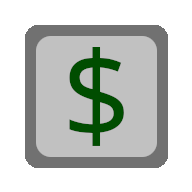
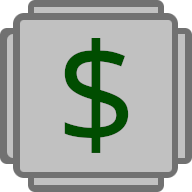
added movable resources (one day im gonna run into performance issues and wonder what the fuck have i done wrong)

diff --git a/src/main/java/me/mert/glyph/Glyph.java b/src/main/java/me/mert/glyph/Glyph.java
@@ -1,0 +1,131 @@
+package me.mert.glyph;
+
+import java.awt.BasicStroke;
+import java.awt.Graphics2D;
+import java.awt.Stroke;
+import java.util.ArrayList;
+import java.util.List;
+
+import me.mert.core.enums.Primitive;
+
+public class Glyph {
+    List<GlyphLayer> layers;
+    static final int[] QX = { 1, 0, 0, 1 };
+    static final int[] QY = { 0, 0, 1, 1 };
+
+    public Glyph(Primitive shape) {
+        layers = new ArrayList<>();
+        fillPrimitives(shape);
+    }
+
+    private void fillPrimitives(Primitive shape) {
+        GlyphLayer layer = new GlyphLayer();
+
+        layer.q[0] = shape;
+        layer.q[1] = shape;
+        layer.q[2] = shape;
+        layer.q[3] = shape;
+
+        layers.add(layer);
+    }
+
+    public static void render(
+            Graphics2D g2d,
+            Glyph g,
+            int x,
+            int y,
+            int size) {
+        if (g == null) {
+            return;
+        }
+
+        int layerOffset = size / 6;
+        
+
+        for (int l = 0; l < g.layers.size(); l++) {
+            int ly = y - l * layerOffset;
+            GlyphLayer layer = g.layers.get(l);
+
+            renderLayer(g2d, layer, x, ly, size);
+        }
+
+    }
+
+    private static boolean isUniform(GlyphLayer layer, Primitive p) {
+        for (int q = 0; q < 4; q++) {
+            if (layer.q[q] != p)
+                return false;
+
+        }
+        return true;
+    }
+
+    private static void renderLayer(
+            Graphics2D g2d,
+            GlyphLayer layer,
+            int x,
+            int y,
+            int size) {
+
+        if (isUniform(layer, Primitive.SQUARE)) {
+            drawSquare(g2d, x, y, size);
+            return;
+        }
+
+        if (isUniform(layer, Primitive.CIRCLE)) {
+            drawCircle(g2d, x, y, size);
+            return;
+        }
+
+        int qs = size / 2;
+
+        for (int q = 0; q < 4; q++) {
+            Primitive p = layer.q[q];
+
+            if (p == Primitive.EMPTY)
+                continue;
+
+            int px = x + QX[q] * qs;
+            int py = y + QY[q] * qs;
+
+            renderPrimitive(g2d, p, px, py, qs);
+        }
+    }
+
+    // tbh idk if this is good to do (idk what else)
+    @SuppressWarnings("incomplete-switch")
+    private static void renderPrimitive(
+            Graphics2D g2d,
+            Primitive p,
+            int x,
+            int y,
+            int size) {
+
+        switch (p) {
+            case SQUARE -> drawSquare(g2d, x, y, size);
+            case CIRCLE -> drawCircle(g2d, x, y, size);
+            case LINE -> drawLine(g2d, x, y, size);
+        }
+
+    }
+
+    private static void drawSquare(Graphics2D g2d, int x, int y, int s) {
+        g2d.drawRect(x + 1, y + 1, s - 2, s - 2);
+    }
+
+    private static void drawCircle(Graphics2D g2d, int x, int y, int s) {
+        g2d.drawOval(x + 1, y + 1, s - 2, s - 2);
+    }
+
+    private static void drawLine(Graphics2D g, int x, int y, int s) {
+        Stroke old = g.getStroke();
+        g.setStroke(new BasicStroke(Math.max(2, s / 6)));
+
+        g.drawLine(
+                x + s / 4, y + s / 4,
+                x + 3 * s / 4, y + 3 * s / 4);
+
+        g.setStroke(old);
+    }
+
+}

diff --git a/src/main/java/me/mert/ui/GameRenderer.java b/src/main/java/me/mert/ui/GameRenderer.java
@@ -10,7 +10,9 @@ import java.util.Set;
 
 import me.mert.components.Component;
 import me.mert.core.Constants;
+import me.mert.core.enums.ComponentType;
 import me.mert.core.enums.Direction;
+import me.mert.glyph.Glyph;
 import me.mert.world.Tile;
 import me.mert.world.World;
 
@@ -28,6 +30,8 @@ public class GameRenderer {
         this.CELL_SIZE = Constants.CELL_SIZE;
     }
 
+    // with the amount of math in this file i deserve at least a bit of appreciation
+    // but sadly nobody is here to see it :(
     private int getSize() {
         return (int) (CELL_SIZE * camera.zoom);
     }
@@ -119,6 +123,9 @@ public class GameRenderer {
     public void drawComponents(Graphics g, int screenWidth, int screenHeight) {
         double zoom = camera.zoom;
 
+        // still don't get why there is Graphics and Graphics2D :|
+        Graphics2D g2d = (Graphics2D) g;
+
         // visible world range
         double worldStartX = camera.x;
         double worldEndX = camera.x + screenWidth / zoom;
@@ -160,10 +167,17 @@ public class GameRenderer {
                 // except if you are retarted and remove the resource folder
                 obj.render(g, screenX, screenY, zoom, CELL_SIZE);
 
-                // TEMP to visualize the items flowing through
-                if (obj.hasItem()) {
-                    g.setColor(Color.RED);
-                    g.fillOval(screenX, screenY, 20, 20);
+                if (obj.hasItem() && obj.type != ComponentType.HUB) {
+                    Glyph glyph = obj.getItem();
+
+                    if (glyph == null)
+                        continue;
+
+                    int glyphSize = (int) (CELL_SIZE * zoom * 0.6);
+                    int gx = screenX + (int) (CELL_SIZE * zoom / 2 - glyphSize / 2);
+                    int gy = screenY + (int) (CELL_SIZE * zoom / 2 - glyphSize / 2);
+
+                    Glyph.render(g2d, glyph, gx, gy, glyphSize);
                 }
             }
         }

diff --git a/src/main/java/me/mert/glyph/GlyphLayer.java b/src/main/java/me/mert/glyph/GlyphLayer.java
@@ -1,0 +1,21 @@
+package me.mert.glyph;
+
+import me.mert.core.enums.Primitive;
+
+public class GlyphLayer {
+    public static final int QUARTERS = 4;
+
+    // quarter pos:
+    // [0] - TR
+    // [1] - TL
+    // [2] - BL
+    // [3] - BR
+
+    Primitive[] q = new Primitive[QUARTERS];
+
+    public GlyphLayer() {
+        for (int i = 0; i < 4; i++)
+            q[i] = Primitive.EMPTY;
+    }
+
+}

diff --git a/src/main/java/me/mert/components/Component.java b/src/main/java/me/mert/components/Component.java
@@ -13,7 +13,7 @@ import javax.imageio.ImageIO;
 import me.mert.core.enums.ComponentType;
 import me.mert.core.enums.Direction;
 import me.mert.core.enums.PortType;
-import me.mert.world.Glyph;
+import me.mert.glyph.Glyph;
 
 public abstract class Component {
     public int i, j;
@@ -217,6 +217,17 @@ public abstract class Component {
             }
         }
         return false;
+    }
+
+    public final Glyph getItem() {
+        if (hasItem()) {
+            for (Port p : inputs) {
+                if (p.hasItem()) {
+                    return p.getItem();
+                }
+            }
+        }
+        return null;
     }
 
     public final List<Port> getInputPorts() {

diff --git a/src/main/java/me/mert/core/enums/Primitive.java b/src/main/java/me/mert/core/enums/Primitive.java
@@ -1,0 +1,8 @@
+package me.mert.core.enums;
+
+public enum Primitive {
+    EMPTY,
+    LINE,
+    CIRCLE,
+    SQUARE
+}

diff --git a/src/main/java/me/mert/components/Collector.java b/src/main/java/me/mert/components/Collector.java
@@ -2,7 +2,8 @@ package me.mert.components;
 
 import me.mert.core.enums.ComponentType;
 import me.mert.core.enums.Direction;
-import me.mert.world.Glyph;
+import me.mert.core.enums.Primitive;
+import me.mert.glyph.Glyph;
 
 public class Collector extends Component {
 
@@ -18,7 +19,8 @@ public class Collector extends Component {
     public void update() {
         // if emtpy create new one
         if (!out.hasItem() && out.nextItem == null) {
-            out.nextItem = new Glyph(1);
+            Glyph glyph = new Glyph(Primitive.LINE);
+            out.nextItem = glyph;
         }
 
         if (out.hasItem() && out.getConnectedTo() != null) {

diff --git a/src/main/java/me/mert/components/Conveyor.java b/src/main/java/me/mert/components/Conveyor.java
@@ -5,7 +5,7 @@ import java.awt.image.BufferedImage;
 import me.mert.core.enums.ComponentType;
 import me.mert.core.enums.Direction;
 import me.mert.core.enums.PortType;
-import me.mert.world.Glyph;
+import me.mert.glyph.Glyph;
 
 public class Conveyor extends Component {
 

diff --git a/src/main/java/me/mert/components/ItemAcceptor.java b/src/main/java/me/mert/components/ItemAcceptor.java
@@ -1,6 +1,6 @@
 package me.mert.components;
 
-import me.mert.world.Glyph;
+import me.mert.glyph.Glyph;
 
 public interface ItemAcceptor {
     boolean canAccept(Glyph g);

diff --git a/src/main/java/me/mert/components/ItemEjector.java b/src/main/java/me/mert/components/ItemEjector.java
@@ -1,6 +1,6 @@
 package me.mert.components;
 
-import me.mert.world.Glyph;
+import me.mert.glyph.Glyph;
 
 public interface ItemEjector {
 

diff --git a/src/main/java/me/mert/components/Port.java b/src/main/java/me/mert/components/Port.java
@@ -2,7 +2,7 @@ package me.mert.components;
 
 import me.mert.core.enums.Direction;
 import me.mert.core.enums.PortType;
-import me.mert.world.Glyph;
+import me.mert.glyph.Glyph;
 
 // Port uses 2 phase update so items won't travel the whole path in 1 frame
 public class Port implements ItemAcceptor, ItemEjector {

diff --git a/src/main/java/me/mert/ui/panel/GamePanel.java b/src/main/java/me/mert/ui/panel/GamePanel.java
@@ -15,7 +15,6 @@ import me.mert.ui.GameRenderer;
 import me.mert.world.World;
 
 public class GamePanel extends JPanel {
-    private final Camera camera;
     private final World world;
     private final GameRenderer gameRenderer;
 
@@ -24,7 +23,6 @@ public class GamePanel extends JPanel {
     protected Component selectedComponent = ComponentType.createComponent(selectedType, selectedDirection, 0, 0);
 
     public GamePanel(Camera camera, World world, GameRenderer gameRenderer) {
-        this.camera = camera;
         this.world = world;
         this.gameRenderer = gameRenderer;
 

diff --git a/src/main/java/me/mert/input/MouseInput.java b/src/main/java/me/mert/input/MouseInput.java
@@ -49,6 +49,7 @@ public class MouseInput extends MouseAdapter {
         panel.repaint();
     }
 
+    // i wish i wasn't the person i am
     @Override
     public void mouseWheelMoved(MouseWheelEvent e) {
         int mouseX = e.getX();